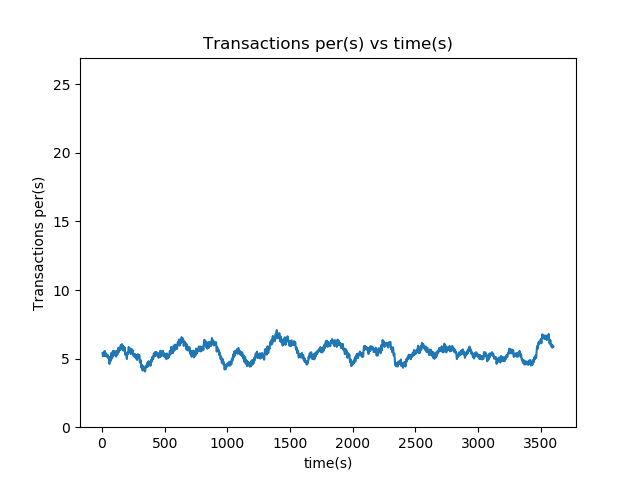
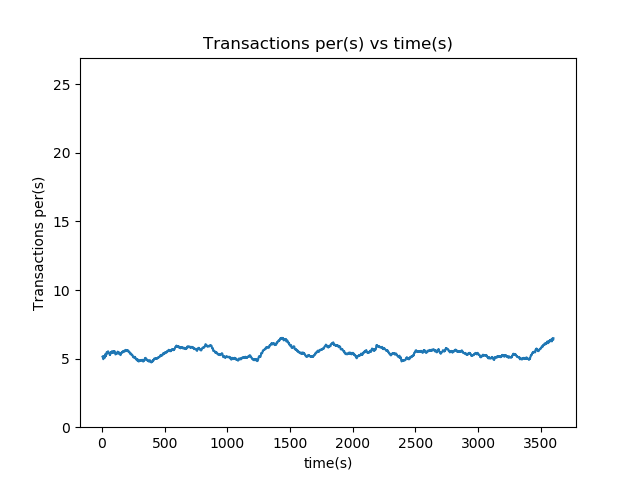
increased moving average resolution to 100 for tx rate graph

Changed region(s): [[0.1562, 0.6875, 0.875, 0.7812]]

diff --git a/grapher.py b/grapher.py
@@ -49,7 +49,7 @@ def graph_line(index, lines, smoothed):
 
 
 def moving_average(data):
-    res = 50
+    res = 100
     r = []
     for index in range(len(data)):
         start = max(0, index - res)
